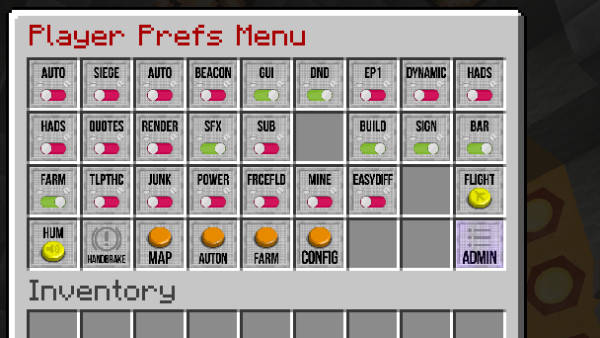
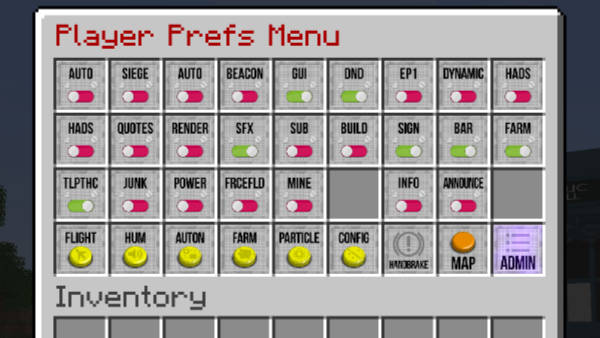
Materialisation particles

diff --git a/sidebars.ts b/sidebars.ts
@@ -133,7 +133,8 @@ const sidebars: SidebarsConfig = {
                 'custom-model-presets',
                 'adaptive-presets'
             ]
-        }
+        },
+        'materialisation-particles',
       ],
     },
     {

diff --git a/docs/materialisation-particles.md b/docs/materialisation-particles.md
@@ -1,0 +1,144 @@
+---
+layout: default
+title: Materialisation Particles
+---
+
+# Materialisation Particles
+
+You can configure the TARDIS to display particle effects when the TARDIS materialises and dematerialises.
+
+The effects are customisable for shape, particle, density and speed -  the defaults are `Ash` particle, `Random` shape, `16` density, `0` speed and materialisation particles `OFF`.
+
+## Particle GUI
+
+You can set particle options in the Particle Prefs GUI. Right-click AIR while sneaking with the sonic screwdriver to open the Player Pref Menu, then click the _Materialisation Particles_ button. 
+
+![Particle GUI button](https://github.com/eccentricdevotion/TARDIS-Resource-Pack/blob/master/assets/tardis/textures/item/gui/particle/button.png?raw=true)
+
+![Particle GUI](/images/docs/particle_gui.jpg)
+
+## Particle options
+
+<table>
+  <tr>
+    <th>Option</th><th>Description</th>
+  </tr>
+  <tr>
+    <td colspan="2">**Shape**</td>
+  </tr>
+  <tr>
+    <td>![Shape info](https://github.com/eccentricdevotion/TARDIS-Resource-Pack/blob/master/assets/tardis/textures/item/gui/particle/shape_info.png?raw=true)</td><td>_Set the shape of the particle effect_ - choose an option to the right of this icon.</td>
+  </tr>
+  <tr>
+    <td class="indent1">`Beam`</td><td>Random particle beams that shoot out from the centre of the TARDIS exterior.</td>
+  </tr>
+  <tr>
+    <td class="indent1">`Helix`</td><td>A helical spiral that traces a path around the TARDIS exterior.</td>
+  </tr>
+  <tr>
+    <td class="indent1">`Random`</td><td>Randomly placed particles.</td>
+  </tr>
+  <tr>
+    <td class="indent1">`Rings`</td><td>Several particle rings that animate top to bottom.</td>
+  </tr>
+  <tr>
+    <td class="indent1">`Vacuum`</td><td>Animated particles that get sucked into the centre of the TARDIS exterior.</td>
+  </tr>
+  <tr>
+    <td class="indent1">`Wave`</td><td>A sinusoidal wave of particles that come out from the centre of the TARDIS exterior.</td>
+  </tr>
+    <tr>
+    <td colspan="2">**Particle**</td>
+  </tr>
+  <tr>
+    <td>![Effect info](https://github.com/eccentricdevotion/TARDIS-Resource-Pack/blob/master/assets/tardis/textures/item/gui/particle/effect_info.png?raw=true)</td><td>_Set the particle of the effect uses_ - choose an option to the right of this icon.</td>
+  </tr>
+  <tr>
+    <td class="indent1">`Ash`</td><td>_Ash_ - As found throughout the atmosphere in the soul sand valley biome</td>
+  </tr>
+  <tr>
+      <td class="indent1">`Boom`</td><td>_Sonic boom_ - Produced by the warden during its sonic boom attack.</td>
+  </tr>
+  <tr>
+      <td class="indent1">`Breath`</td><td>_Dragon breath_ - Spit out by the ender dragon</td>
+  </tr>
+  <tr>
+      <td class="indent1">`Bubbles`</td><td>_Bubble pop_ - Popping water bubbles.</td>
+  </tr>
+  <tr>
+      <td class="indent1">`Clouds`</td><td>_Cloud_ - Appears when placing wet sponges in the Nether.</td>
+  </tr>
+  <tr>
+      <td class="indent1">`Dust`</td><td>_Dust_ - Emitted by powered redstone torches, powered levers, redstone ore, powered redstone dust, and powered redstone repeaters.</td>
+  </tr>
+  <tr>
+      <td class="indent1">`Effect`</td><td>_Effect_ - Produced by splash potions.</td>
+  </tr>
+  <tr>
+      <td class="indent1">`Flames`</td><td>_Flame_ - Appears inside of monster spawners, produced by magma cubes, represents the flame of torches, emitted by furnaces.</td>
+  </tr>
+  <tr>
+      <td class="indent1">`Glow`</td><td>_Glow_ - Emitted by glow squids.</td>
+  </tr>
+  <tr>
+      <td class="indent1">`Gust`</td><td>_Small gust_ - Produced by mobs with the Wind Charged effect.</td>
+  </tr>
+  <tr>
+      <td class="indent1">`Heart`</td><td>_Heart_ - Appears when taming mobs, emitted by breeding mobs, feeding mobs, appears when allays duplicate.</td>
+  </tr>
+  <tr>
+      <td class="indent1">`Hit`</td><td>_Enchanted hit_ - Appears when hitting entities with a sword or an axe enchanted with Sharpness, Bane of Arthropods, or Smite.</td>
+  </tr>
+  <tr>
+      <td class="indent1">`Honey`</td><td>_Dripping honey_ - Represents honey drips collected on the bottom of full bee nests or beehives that have not yet dripped down.</td>
+  </tr>
+  <tr>
+      <td class="indent1">`Infested`</td><td>_Infested_ - Produced by entities with the Infested effect.</td>
+  </tr>
+  <tr>
+      <td class="indent1">`Music`</td><td>_Note_ - Produced by jukeboxes, produced by note blocks.</td>
+  </tr>
+  <tr>
+      <td class="indent1">`Omen`</td><td>_Trial omen_ - Produced by players and mobs with the Trial Omen effect.</td>
+  </tr>
+  <tr>
+      <td class="indent1">`Petals`</td><td>_Cherry leaves_ - Falls off the bottom of cherry leaves.</td>
+  </tr>
+  <tr>
+      <td class="indent1">`Sculk`</td><td>_Sculk charge_ - Marks the path of a sculk charge.</td>
+  </tr>
+  <tr>
+      <td class="indent1">`Shriek`</td><td>_Shriek_ - Emitted by activated sculk shriekers.</td>
+  </tr>
+  <tr>
+      <td class="indent1">`Snowy`</td><td>_Item snowball_ - Produced when thrown snowballs break.</td>
+  </tr>
+  <tr>
+    <td colspan="2">**Density**</td>
+  </tr>
+  <tr>
+    <td>![Density info](https://github.com/eccentricdevotion/TARDIS-Resource-Pack/blob/master/assets/tardis/textures/item/gui/particle/density.png?raw=true)</td><td>_Set the particle density for certain effects_ - use the plus and minus buttons to change the value from `8` to `32`.</td>
+  </tr>
+  <tr>
+    <td colspan="2">**Speed**</td>
+  </tr>
+  <tr>
+    <td>![Speed info](https://github.com/eccentricdevotion/TARDIS-Resource-Pack/blob/master/assets/tardis/textures/item/gui/particle/speed.png?raw=true)</td><td>_Set the particle speed_ - use the plus and minus buttons to change the value from `0` to `10`.</td>
+  </tr>
+  <tr>
+    <td colspan="2">**Toggle on / off**</td>
+  </tr>
+  <tr>
+    <td>![Toggle button](https://github.com/eccentricdevotion/TARDIS-Resource-Pack/blob/master/assets/tardis/textures/item/gui/control/toggle_open.png?raw=true)</td><td>_Whether materialisation particles are displayed_ - Toggle between ON and OFF.</td>
+  </tr>
+  <tr>
+    <td colspan="2">**Test**</td>
+  </tr>
+  <tr>
+    <td>![Test button](https://github.com/eccentricdevotion/TARDIS-Resource-Pack/blob/master/assets/tardis/textures/item/gui/particle/test.png?raw=true)</td><td>_Test the current settings_ - Players must be outside of the TARDIS.</td>
+  </tr>
+</table>
+
+## Video
+
+<iframe width="600" height="337" src="https://www.youtube.com/embed/uGPHUOATMV0?si=-evxSJf-Ej_GgSia" title="YouTube video player" frameborder="0" allow="accelerometer; autoplay; clipboard-write; encrypted-media; gyroscope; picture-in-picture; web-share" referrerpolicy="strict-origin-when-cross-origin" allowfullscreen></iframe>

diff --git a/docs/site-map.md b/docs/site-map.md
@@ -200,6 +200,7 @@ import TabItem from '@theme/TabItem';
 <TabItem value="M" label="M">
 
 [Malfunction](malfunction "Malfunction")  
+[Materialisation Particles](materialisation-particles "Materialisation Particles")  
 [Mire](modules/weeping-angels#mire "Mire")  
 [Miscellaneous commands](commands/misc "Miscellaneous commands")  
 [Mob farming](farming "Mob farming")  
@@ -218,6 +219,7 @@ import TabItem from '@theme/TabItem';
 </TabItem>
 <TabItem value="P" label="P">
 
+[Particles](materialisation-particles "Materialisation Particles")  
 [Perception Filter](perception-filter "Perception Filter")  
 [Permissions](permissions-table "Permissions")  
 [PlaceholderAPI Placeholders](placeholders "PlaceholderAPI")  
